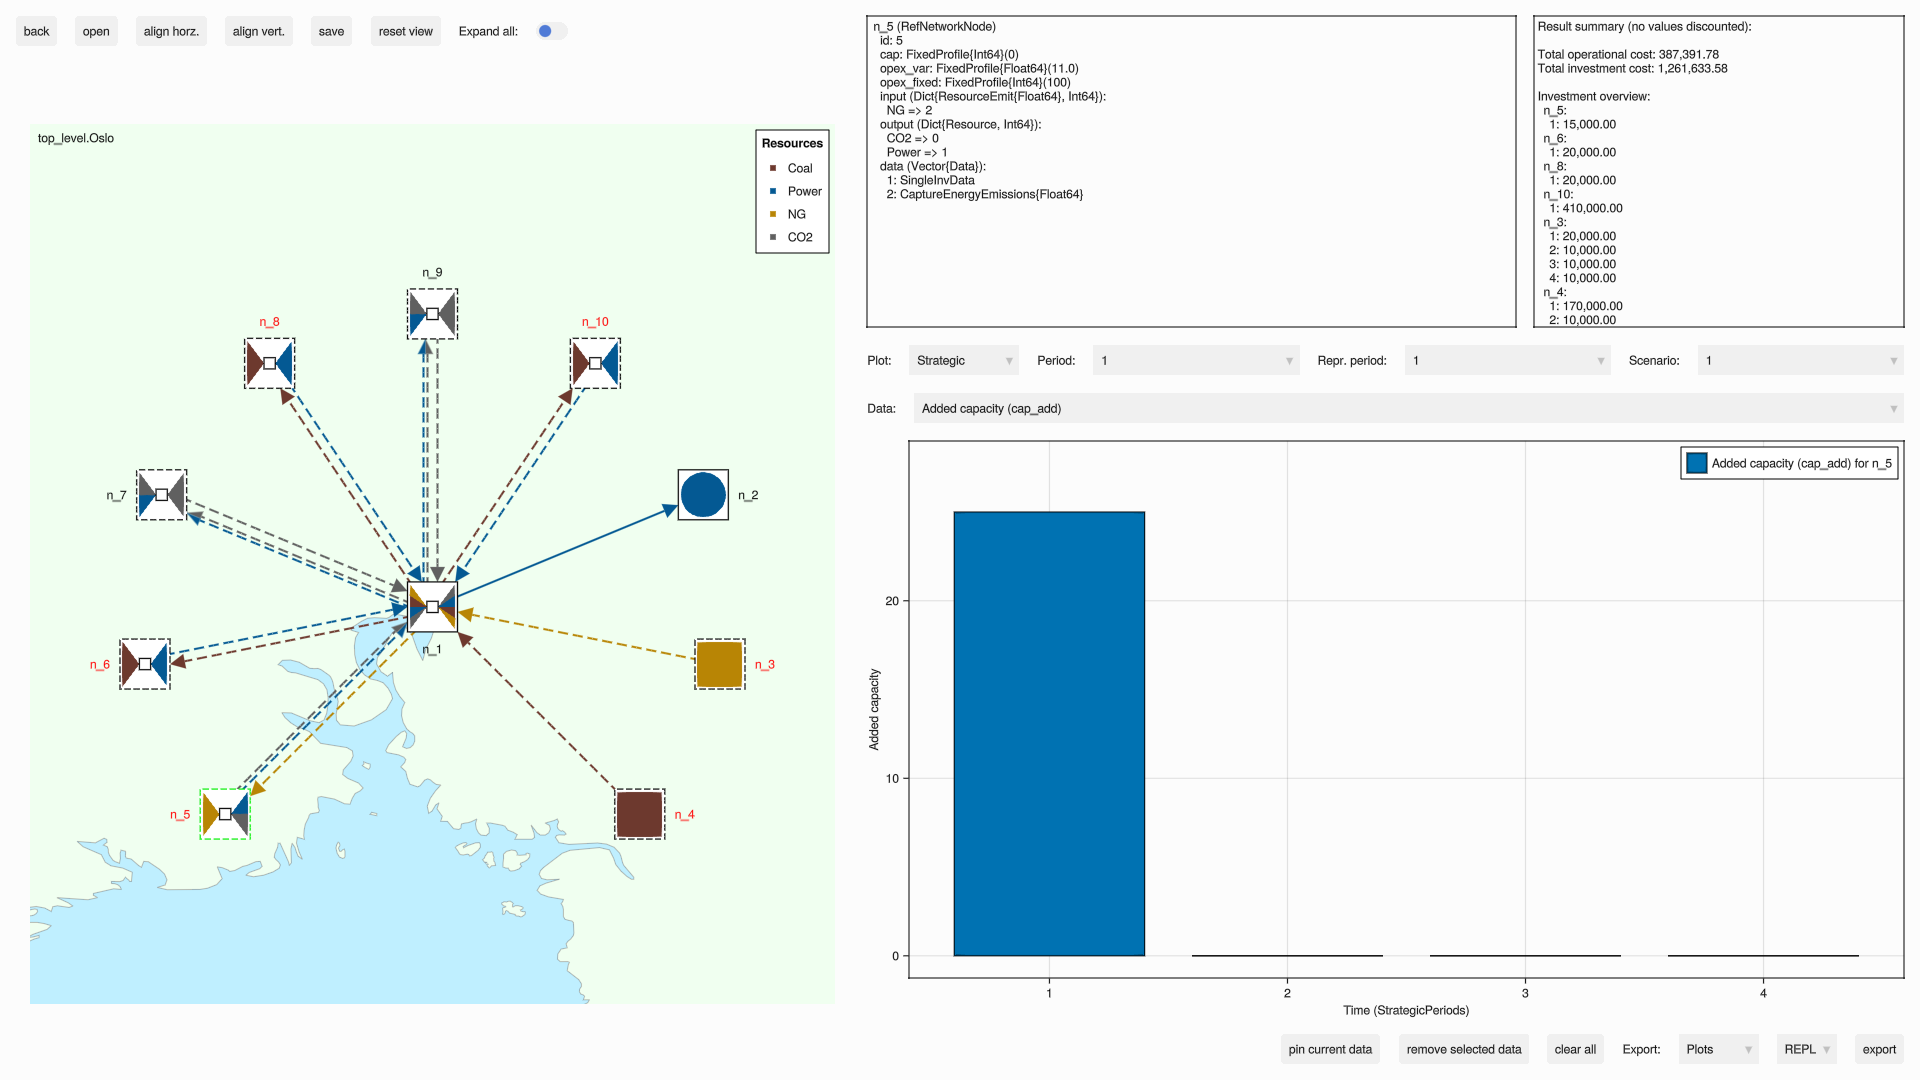
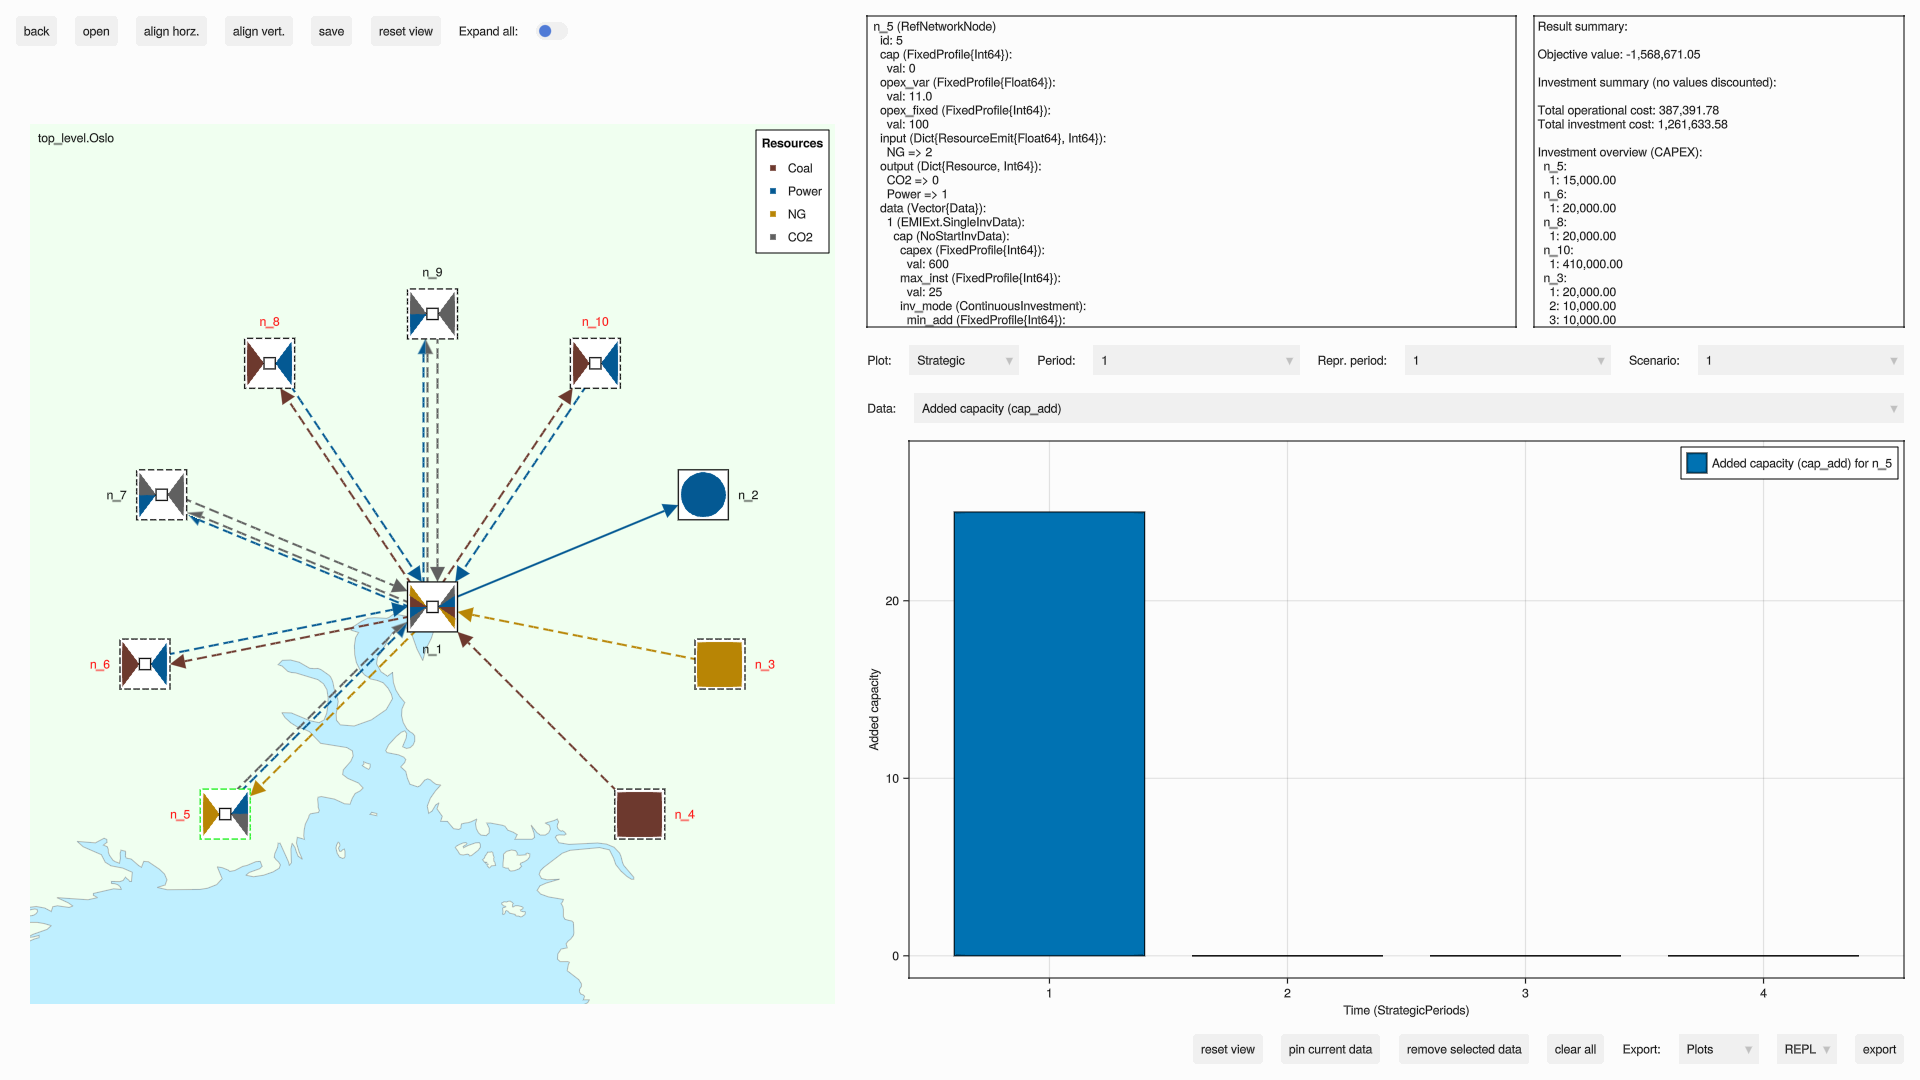
Show objective values in the solution summary. Fix minor issues

diff --git a/NEWS.md b/NEWS.md
@@ -1,5 +1,11 @@
 # Release notes
 
+## Version 0.5.10 (2024-11-30)
+
+### Enhancement
+
+* Show objective value in the solution summary.
+
 ## Version 0.5.9 (2024-11-12)
 
 ### Bugfix
@@ -238,7 +244,7 @@
 
 ### Feature
 
-* You can now use Button4 (used in i.e. browsers to go back to previous page) to go back to the `TopLevel` of the design (as an alternative to the `Esc` button).
+* You can now use Button4 (used in, *e.g.*, browsers to go back to previous page) to go back to the `TopLevel` of the design (as an alternative to the `Esc` button).
 * Double-clicking a node now opens its sub-system.
 * Customized labels can now be provided for the different time structures.
 * Plot data can now be exported to bit-map formats and to vector formats (.svg and .pdf).

diff --git a/docs/src/index.md b/docs/src/index.md
@@ -4,7 +4,7 @@
 EnergyModelsGUI
 ```
 
-**EnergyModelsX** is an operational, multi nodeal energy system model, written in Julia.
+**EnergyModelsX** is an operational, multi nodal energy system framework, written in Julia.
 The model is based on the [`JuMP`](https://jump.dev/JuMP.jl/stable/) optimization framework.
 It is a multi carrier energy model, where the definition of the resources are fully up to the user of the model.
 One of the primary design goals was to develop a model that can eaily be extended with new functionality without the need to understand and remember every variable and constraint in the model.

diff --git a/docs/src/how-to/customize-descriptive_names.md b/docs/src/how-to/customize-descriptive_names.md
@@ -38,7 +38,7 @@ gui = GUI(
 ```
 The variables for `total` quantities (and their descriptions) can be customized in the same manner (see structure in the `src/descriptive_names.yml` file).
 
-It is also possible to ignore certain `JuMP` variables. I.e., ignoring `cap_use` and `flow_in` (in addition to the variable `con_em_tot` which is ignored by default) can be done as follows
+It is also possible to ignore certain `JuMP` variables. *E.g.*, ignoring `cap_use` and `flow_in` (in addition to the variable `con_em_tot` which is ignored by default) can be done as follows
 ```julia
 gui = GUI(
     case;

diff --git a/docs/src/manual/simple-example.md b/docs/src/manual/simple-example.md
@@ -1,4 +1,4 @@
-# Example with functionality overview
+# [Example with functionality overview](@id simple-example)
 
 For the content of the individual examples, see the [examples](https://github.com/EnergyModelsX/EnergyModelsGUI.jl/tree/main/examples) directory in the project repository.
 

diff --git a/examples/README.md b/examples/README.md
@@ -16,6 +16,6 @@ using Pkg
 Pkg.activate(exdir)
 Pkg.instantiate()
 
-# Include the code into the Julia REPL to run an example (i.e., EMI_geography.jl):
+# Include the code into the Julia REPL to run an example (*e.g.*, EMI_geography.jl):
 include(joinpath(exdir, "EMI_geography.jl"))
 ```

diff --git a/docs/src/manual/quick-start.md b/docs/src/manual/quick-start.md
@@ -17,3 +17,5 @@ using EnergyModelsGUI
 
 GUI(case)
 ```
+
+A complete overview of the keyword arguments available for the `GUI` functions is available [`here`](@ref GUI(::Dict)). The GUI and its functionality is described through an example [`here`](@ref simple-example).
